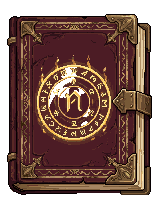
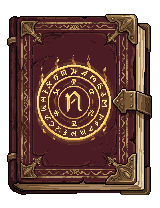
Fill see-through gaps, scribbled page, flipped corners, full page turn
- Fill transparent holes inside the cover's rune circle, the open book's
  pages and the eye icon (eye whites, inside of the ring)
- Turning leaf now carries scribbled handwriting, a heading and a margin sigil
- Corner ornament flipped so each corner sits flush and clears the title
- Turn the page now swings the whole page over the spine, revealing the
  next page beneath, in place of the card flip

Claude-Session: https://claude.ai/code/session_019kwXiJbHk2Yv2sUJN1ViW3

diff --git a/screens/primary.js b/screens/primary.js
@@ -214,9 +214,32 @@ class Component extends DCLogic {
     }
   }
   nextPage() {
+    // Turn the whole page: a copy of the finished page lifts from the right edge and
+    // swings over the spine, revealing the fresh page already waiting underneath.
+    if (this.state.flipping) return;
+    const page = document.querySelector('[data-page="game"]');
+    if (page) {
+      const r = page.getBoundingClientRect();
+      const frame = document.getElementById('frame');
+      const box = frame.getBoundingClientRect();
+      const s = box.width / 390;
+      const leaf = page.cloneNode(true);
+      leaf.removeAttribute('data-page');
+      leaf.classList.add('turningPage');
+      leaf.style.left = (r.left - box.left) / s + 'px';
+      leaf.style.top = (r.top - box.top) / s + 'px';
+      leaf.style.width = r.width / s + 'px';
+      leaf.style.height = r.height / s + 'px';
+      const shade = document.createElement('div');
+      shade.className = 'turnShade';
+      leaf.appendChild(shade);
+      frame.appendChild(leaf);
+      setTimeout(() => leaf.remove(), 1000);
+    }
     this.setState({ flipping: true });
-    setTimeout(() => { this.newPage(); this.setState({ pageNum: this.state.pageNum + 1 }); }, 260);
-    setTimeout(() => this.setState({ flipping: false }), 560);
+    this.newPage();
+    this.setState({ pageNum: this.state.pageNum + 1 });
+    setTimeout(() => this.setState({ flipping: false }), 1000);
   }
   setMode(m) {
     this.setState({ mode: m, streak: 0 });
@@ -316,7 +339,7 @@ class Component extends DCLogic {
       modeHint: { copy: 'Match each faded rune.', recall: 'From memory: find each word’s rune.', read: 'Read each rune: pick its name.' }[s.mode],
       streakText: 'Streak ' + s.streak + ' · ×' + mult,
       streakStyle: 'font-family:Cinzel, serif;font-size:13px;font-weight:700;white-space:nowrap;' + (mult > 1 ? 'color:#7A1F2B;' : 'color:#5E4128;'),
-      pageSlots: slots, tiles: tiles, pageClass: s.flipping ? 'turn' : '',
+      pageSlots: slots, tiles: tiles, pageClass: '',
       pageDone: s.done, tallyXp: '+' + s.pageXp + ' XP',
       tallyNote: s.ink >= 100 ? (s.learned ? 'Another word is complete. Its puzzle comes in a later build.' : 'The unknown word is complete. Decipher it now.') : 'Ink gathered toward an unknown word.',
       hasMargin: !!s.margin, margin: s.margin,

diff --git a/css/primary.css b/css/primary.css
@@ -68,3 +68,8 @@ button{font-family:inherit;cursor:pointer;-webkit-tap-highlight-color:transparen
 .pageIn{transform-origin:left center;backface-visibility:hidden;-webkit-backface-visibility:hidden;animation:pageIn 900ms cubic-bezier(.45,.05,.35,1) both}
 @keyframes runeGlow{0%,100%{opacity:.45;transform:scale(.92)}50%{opacity:.95;transform:scale(1.06)}}
 .runeGlow{animation:runeGlow 1.4s ease-in-out infinite}
+/* Turning the whole page (screens/primary.js nextPage): the old page swings over the spine on the left. */
+@keyframes turnPage{0%{transform:perspective(1600px) rotateY(0)}12%{transform:perspective(1600px) rotateY(-14deg)}100%{transform:perspective(1600px) rotateY(-180deg)}}
+.turningPage{position:absolute;z-index:20;margin:0;pointer-events:none;transform-origin:left center;backface-visibility:hidden;-webkit-backface-visibility:hidden;animation:turnPage 950ms cubic-bezier(.45,.05,.35,1) forwards;box-shadow:inset 0 0 70px rgba(92,52,20,0.42), 18px 0 40px rgba(40,20,8,0.45)}
+@keyframes turnShade{from{opacity:0}to{opacity:1}}
+.turnShade{position:absolute;left:0;top:0;width:100%;height:100%;pointer-events:none;background:linear-gradient(to left, rgba(70,36,12,0.45), rgba(70,36,12,0) 70%);animation:turnShade 500ms ease-in forwards}

diff --git a/index.html b/index.html
@@ -287,7 +287,7 @@
 
     <div class="{{wrapCls}}" style="{{wrapStyle}}">
 
-      <div class="parch" style="{{gameStyle}}">
+      <div class="parch" data-page="game" style="{{gameStyle}}">
         <div style="display: flex; justify-content: space-between; align-items: center; gap: 8px">
           <button type="button" class="inkbtn" onClick="{{toContents}}" aria-label="Back to contents" style="height: 44px; padding: 0 12px 0 8px; border-radius: 10px; border: 2px solid rgba(122,31,43,0.5); background: rgba(255,248,232,0.4); display: flex; align-items: center; gap: 6px; color: #7A1F2B; font-family: 'Cinzel', serif; font-size: 13px; font-weight: 700; letter-spacing: 1px">
             <svg width="18" height="18" viewBox="0 0 24 24" fill="none" stroke="#7A1F2B" stroke-width="2.4" stroke-linecap="round" stroke-linejoin="round" aria-hidden="true"><path d="M7 3h10v18l-5-4-5 4z"></path></svg>

diff --git a/README.md b/README.md
@@ -23,7 +23,7 @@ Plus Bag, Gear, Stats and Quests sheets. Tap the location card to preview other 
 | `screens/primary.js` | Primary screen + tome logic |
 | `css/primary.css`, `css/shell.css` | Animations and styles; fitting the 390 × 844 frame to any phone |
 | `js/dc-lite.js` | Small runtime for the prototype template format |
-| `assets/tome/` | Tome art (cover, spread, parchment, corner ornament, lesson icons; the turning leaf is a stand-in) |
+| `assets/tome/` | Tome art (cover, spread, turning leaf, parchment, corner ornament, lesson icons) |
 | `practice.html`, `css/style.css` | Spell practice page |
 | `js/lexicon.js` | All spell data: roots, opposites, secret combos, costs |
 | `js/spells.js` | Spell grammar (pure logic, no DOM) |
@@ -37,5 +37,5 @@ The design source of truth lives in the "Mobile Game" Claude project; `docs/` ho
 ## Status
 
 - Primary screen and tome study ported from the "Tome Prototype" design canvas (2026-11-08).
-- Tome art is the original generated art, except `tome-leaf.png` (the turning page), which is still a stand-in.
+- Tome art is the original generated art. See-through gaps inside the cover, open book and eye icon are filled in; the corner ornament is flipped to sit in the top-left like the layout expects. `tome-leaf.png` (the turning page, with scribbled handwriting) is drawn by hand.
 - Combat is to be redesigned.
